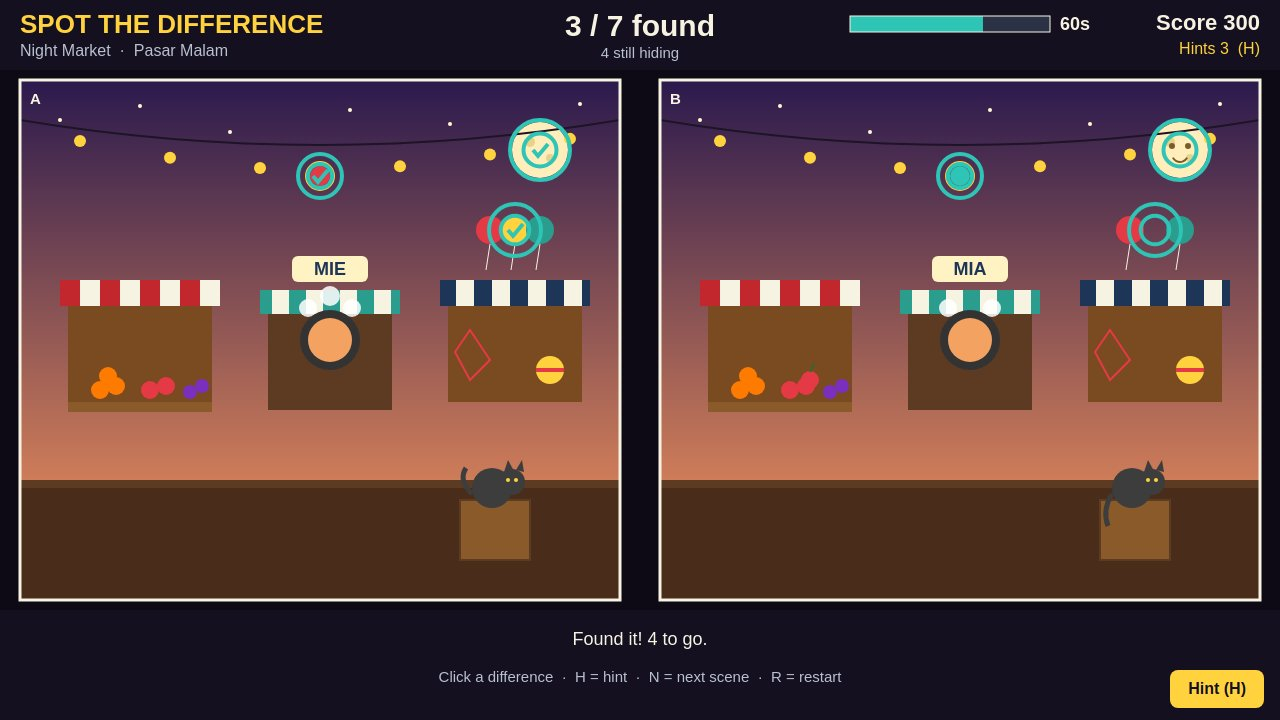
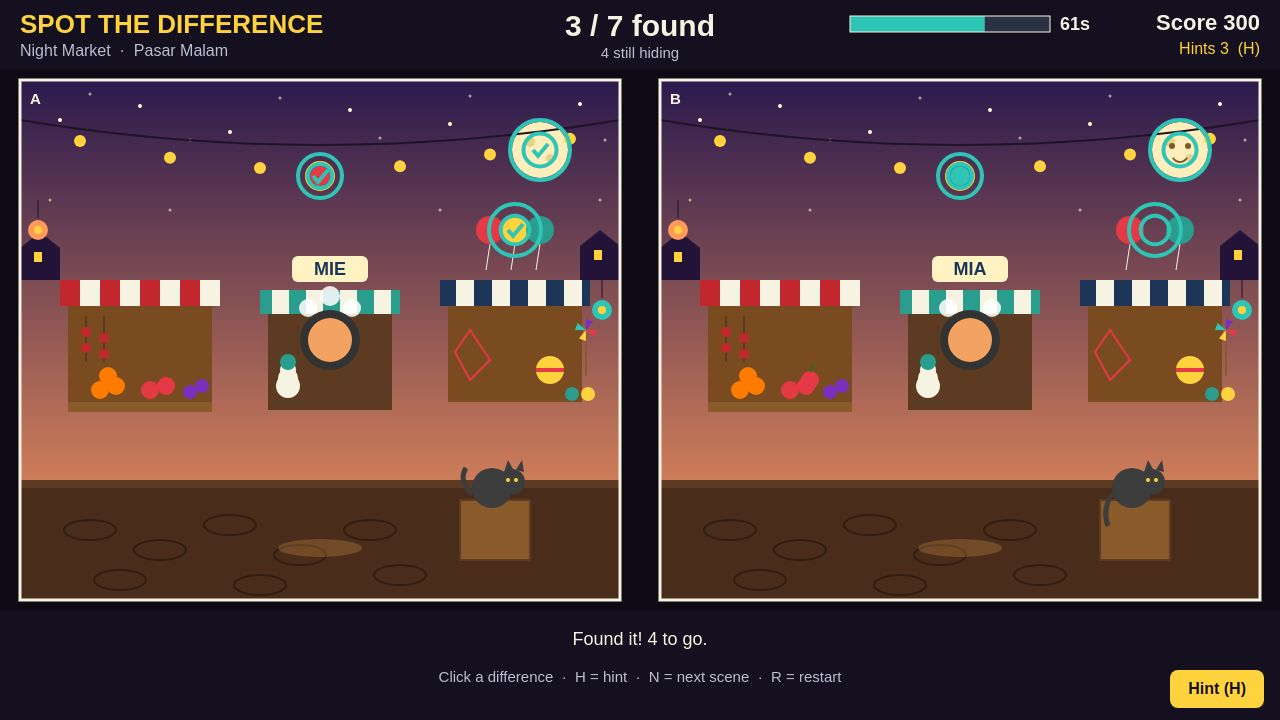
Spot the Difference revision 2: richer scenes, same 7 differences per scene

diff --git a/game/src/scenes.js b/game/src/scenes.js
@@ -66,6 +66,12 @@ function paintNightMarket(g, on) {
     sceneDisc(g, sx, sy, 2);
     g.fill();
   }
+  // a few more faint stars, kept clear of the moon and the centre lamp
+  g.fillStyle = 'rgba(255,248,214,0.6)';
+  for (const [sx, sy] of [[70, 14], [170, 60], [260, 18], [360, 58], [450, 16], [585, 60], [30, 120], [150, 130], [420, 130], [580, 120]]) {
+    sceneDisc(g, sx, sy, 1.5);
+    g.fill();
+  }
   // moon, top right — difference "moon": a face appears
   g.fillStyle = '#ffeebb';
   sceneDisc(g, 520, 70, 28);
@@ -109,11 +115,44 @@ function paintNightMarket(g, on) {
   g.lineWidth = 2;
   sceneDisc(g, 300, 96, 14);
   g.stroke();
+  // distant rooftops peeking over the stalls, with one lit window each
+  g.fillStyle = '#241338';
+  g.beginPath();
+  g.moveTo(0, 200);
+  g.lineTo(0, 168);
+  g.lineTo(20, 152);
+  g.lineTo(40, 168);
+  g.lineTo(40, 200);
+  g.closePath();
+  g.fill();
+  g.beginPath();
+  g.moveTo(560, 200);
+  g.lineTo(560, 166);
+  g.lineTo(580, 150);
+  g.lineTo(600, 166);
+  g.lineTo(600, 200);
+  g.closePath();
+  g.fill();
+  g.fillStyle = '#ffd23e';
+  g.fillRect(14, 172, 8, 10);
+  g.fillRect(574, 170, 8, 10);
   // ground
   g.fillStyle = '#4a2c1a';
   g.fillRect(0, 400, 600, 120);
   g.fillStyle = '#5d3a22';
   g.fillRect(0, 400, 600, 8);
+  // cobbles and a puddle catching the market light, clear of the cat's crate
+  g.strokeStyle = 'rgba(0,0,0,0.35)';
+  g.lineWidth = 2;
+  for (const [cx, cy] of [[70, 450], [140, 470], [210, 445], [280, 475], [350, 450], [100, 500], [240, 505], [380, 495]]) {
+    g.beginPath();
+    g.ellipse(cx, cy, 26, 10, 0, 0, Math.PI * 2);
+    g.stroke();
+  }
+  g.fillStyle = 'rgba(255,180,90,0.22)';
+  g.beginPath();
+  g.ellipse(300, 468, 42, 9, 0, 0, Math.PI * 2);
+  g.fill();
   // left stall — fruit, striped awning
   g.fillStyle = '#c1272d';
   g.fillRect(40, 200, 160, 26);
@@ -137,6 +176,20 @@ function paintNightMarket(g, on) {
   g.fillStyle = '#7b2fbe';
   for (const [fx, fy] of [[170, 312], [182, 306]]) {
     sceneDisc(g, fx, fy, 7);
+    g.fill();
+  }
+  // strings of dried peppers hanging on the stall front
+  g.strokeStyle = '#3d2b1a';
+  g.lineWidth = 1;
+  for (const px of [66, 84]) {
+    g.beginPath();
+    g.moveTo(px, 236);
+    g.lineTo(px, 282);
+    g.stroke();
+  }
+  g.fillStyle = '#c1272d';
+  for (const [px, py] of [[66, 252], [66, 268], [84, 258], [84, 274]]) {
+    sceneDisc(g, px, py, 5);
     g.fill();
   }
   // difference "apple": one more apple on the counter
@@ -173,6 +226,15 @@ function paintNightMarket(g, on) {
     g.fill();
   }
   sceneDisc(g, 332, 228, 9);
+  g.fill();
+  // a stack of bowls on the noodle cart counter
+  g.fillStyle = '#f7f3e3';
+  for (let i = 0; i < 3; i++) {
+    sceneDisc(g, 268, 306 - i * 8, 12 - i * 2);
+    g.fill();
+  }
+  g.fillStyle = '#2a9d8f';
+  sceneDisc(g, 268, 282, 8);
   g.fill();
   // cart sign — difference "sign": MIE reads MIA
   g.fillStyle = '#fff3c4';
@@ -220,6 +282,30 @@ function paintNightMarket(g, on) {
   g.fill();
   g.fillStyle = '#e63946';
   g.fillRect(516, 288, 28, 4);
+  // a pinwheel on a stick and a row of toy balls on the right stall
+  g.strokeStyle = '#8b5a2b';
+  g.lineWidth = 2;
+  g.beginPath();
+  g.moveTo(566, 250);
+  g.lineTo(566, 296);
+  g.stroke();
+  const pinCols = ['#e63946', '#ffd23e', '#2ec4b6', '#7b2fbe'];
+  for (let i = 0; i < 4; i++) {
+    g.fillStyle = pinCols[i];
+    g.beginPath();
+    g.moveTo(566, 250);
+    const a = (i * Math.PI) / 2;
+    g.lineTo(566 + Math.cos(a) * 11, 250 + Math.sin(a) * 11);
+    g.lineTo(566 + Math.cos(a + 0.7) * 11, 250 + Math.sin(a + 0.7) * 11);
+    g.closePath();
+    g.fill();
+  }
+  g.fillStyle = '#2a9d8f';
+  sceneDisc(g, 552, 314, 7);
+  g.fill();
+  g.fillStyle = '#ffd23e';
+  sceneDisc(g, 568, 314, 7);
+  g.fill();
   // cat on a crate — difference "cat": tail hangs down instead of up
   g.fillStyle = '#8b5a2b';
   g.fillRect(440, 420, 70, 60);
@@ -259,6 +345,26 @@ function paintNightMarket(g, on) {
   g.fill();
   sceneDisc(g, 496, 400, 2);
   g.fill();
+  // paper lanterns glowing at the panel edges
+  g.strokeStyle = '#1d1426';
+  g.lineWidth = 1;
+  g.beginPath();
+  g.moveTo(18, 120);
+  g.lineTo(18, 138);
+  g.moveTo(582, 200);
+  g.lineTo(582, 218);
+  g.stroke();
+  g.fillStyle = '#ff9a5c';
+  sceneDisc(g, 18, 150, 10);
+  g.fill();
+  g.fillStyle = '#2ec4b6';
+  sceneDisc(g, 582, 230, 10);
+  g.fill();
+  g.fillStyle = '#ffd23e';
+  sceneDisc(g, 18, 150, 4);
+  g.fill();
+  sceneDisc(g, 582, 230, 4);
+  g.fill();
 }
 
 // ---------------------------------------------------------------- scene 2
@@ -289,6 +395,16 @@ function paintHarbor(g, on) {
     sceneDisc(g, cx - 20, cy + 4, 14);
     g.fill();
   }
+  // two more small clouds drifting low over the sea
+  g.fillStyle = 'rgba(255,255,255,0.85)';
+  for (const [cx, cy] of [[60, 160], [250, 175], [500, 170]]) {
+    sceneDisc(g, cx, cy, 12);
+    g.fill();
+    sceneDisc(g, cx + 14, cy + 3, 9);
+    g.fill();
+    sceneDisc(g, cx - 14, cy + 3, 9);
+    g.fill();
+  }
   // gulls — difference "gull": one gull fewer (four become three)
   sceneGull(g, 220, 120, 1);
   sceneGull(g, 280, 100, 0.9);
@@ -305,11 +421,59 @@ function paintHarbor(g, on) {
     g.quadraticCurveTo(wx + wl / 2, wy - 8, wx + wl, wy);
     g.stroke();
   }
+  // two distant boats on the horizon and the sun's glint on the water
+  g.fillStyle = '#5d3a22';
+  for (const [bx, by] of [[185, 330], [548, 330]]) {
+    g.beginPath();
+    g.moveTo(bx, by);
+    g.lineTo(bx + 34, by);
+    g.lineTo(bx + 28, by + 8);
+    g.lineTo(bx + 6, by + 8);
+    g.closePath();
+    g.fill();
+  }
+  g.fillStyle = '#f7f3e3';
+  g.beginPath();
+  g.moveTo(200, 330);
+  g.lineTo(200, 312);
+  g.lineTo(216, 330);
+  g.closePath();
+  g.fill();
+  g.beginPath();
+  g.moveTo(562, 330);
+  g.lineTo(562, 312);
+  g.lineTo(576, 330);
+  g.closePath();
+  g.fill();
+  g.strokeStyle = 'rgba(255,210,62,0.6)';
+  g.lineWidth = 2;
+  for (const [gx, gy, gl] of [[512, 350, 26], [520, 372, 20], [508, 394, 30], [524, 416, 18]]) {
+    g.beginPath();
+    g.moveTo(gx, gy);
+    g.lineTo(gx + gl, gy);
+    g.stroke();
+  }
   // dock
   g.fillStyle = '#7a4a21';
   g.fillRect(0, 420, 260, 100);
   g.fillStyle = '#8b5a2b';
   for (let i = 0; i < 5; i++) g.fillRect(0, 436 + i * 16, 260, 3);
+  // a coiled rope and a wooden bucket on the dock
+  g.strokeStyle = '#5d3a22';
+  g.lineWidth = 3;
+  for (const [rx, ry] of [[40, 470], [232, 482]]) {
+    g.beginPath();
+    g.arc(rx, ry, 12, 0, Math.PI * 2);
+    g.stroke();
+    g.beginPath();
+    g.arc(rx, ry, 6, 0, Math.PI * 2);
+    g.stroke();
+  }
+  g.fillStyle = '#8b5a2b';
+  g.fillRect(238, 440, 18, 20);
+  g.strokeStyle = '#5d3a22';
+  g.lineWidth = 2;
+  g.strokeRect(238, 440, 18, 20);
   // crates — difference "crate": the top crate is gone
   g.fillStyle = '#b08954';
   g.fillRect(120, 380, 44, 40);
@@ -405,6 +569,23 @@ function paintHarbor(g, on) {
   g.lineTo(490, 340);
   g.closePath();
   g.fill();
+  // a small rowboat tied up near the dock, with oars shipped
+  g.fillStyle = '#7a4a21';
+  g.beginPath();
+  g.moveTo(262, 466);
+  g.lineTo(322, 466);
+  g.lineTo(312, 480);
+  g.lineTo(272, 480);
+  g.closePath();
+  g.fill();
+  g.strokeStyle = '#5d3a22';
+  g.lineWidth = 2;
+  g.beginPath();
+  g.moveTo(276, 466);
+  g.lineTo(292, 452);
+  g.moveTo(308, 466);
+  g.lineTo(296, 452);
+  g.stroke();
   // buoy — difference "buoy": yellow instead of red
   g.fillStyle = on.has('buoy') ? '#ffd23e' : '#e63946';
   sceneDisc(g, 480, 440, 14);
@@ -447,6 +628,23 @@ function paintStation(g, on) {
     sceneDisc(g, sx, sy, 2);
     g.fill();
   }
+  // a small cratered moon and two soft nebula wisps, far from the bright star
+  g.fillStyle = '#dfe6ee';
+  sceneDisc(g, 85, 65, 16);
+  g.fill();
+  g.fillStyle = '#b9c0d0';
+  sceneDisc(g, 80, 60, 4);
+  g.fill();
+  sceneDisc(g, 90, 70, 3);
+  g.fill();
+  g.fillStyle = 'rgba(123,47,190,0.16)';
+  g.beginPath();
+  g.ellipse(90, 245, 38, 16, 0.3, 0, Math.PI * 2);
+  g.fill();
+  g.fillStyle = 'rgba(46,196,182,0.14)';
+  g.beginPath();
+  g.ellipse(480, 45, 30, 14, -0.2, 0, Math.PI * 2);
+  g.fill();
   // bright star — difference "star": it is gone
   if (!on.has('star')) {
     g.fillStyle = '#fff8d6';
@@ -505,8 +703,45 @@ function paintStation(g, on) {
     g.lineTo(i * 100, 520);
     g.stroke();
   }
+  g.fillStyle = '#3d5a80';
+  for (let i = 0; i < 6; i++) {
+    sceneDisc(g, i * 100 + 50, 465, 3);
+    g.fill();
+  }
   g.fillStyle = '#232a3d';
   g.fillRect(0, 300, 600, 100);
+  // wall panel seams, a row of status LEDs and a framed star chart
+  g.strokeStyle = 'rgba(0,0,0,0.4)';
+  g.lineWidth = 1;
+  for (const wx of [50, 150, 250, 350, 450, 550]) {
+    g.beginPath();
+    g.moveTo(wx, 300);
+    g.lineTo(wx, 400);
+    g.stroke();
+  }
+  const ledCols = ['#2ec4b6', '#ffd23e', '#2ec4b6', '#e63946'];
+  for (let i = 0; i < 4; i++) {
+    g.fillStyle = ledCols[i];
+    sceneDisc(g, 330 + i * 18, 318, 4);
+    g.fill();
+  }
+  g.fillStyle = '#0e1626';
+  g.fillRect(64, 316, 52, 38);
+  g.strokeStyle = '#3d5a80';
+  g.lineWidth = 2;
+  g.strokeRect(64, 316, 52, 38);
+  g.fillStyle = '#fff8d6';
+  for (const [px, py] of [[74, 328], [90, 322], [104, 332], [82, 344], [100, 344]]) {
+    sceneDisc(g, px, py, 2);
+    g.fill();
+  }
+  g.strokeStyle = '#ffd23e';
+  g.lineWidth = 1;
+  g.beginPath();
+  g.moveTo(74, 328);
+  g.lineTo(90, 322);
+  g.lineTo(104, 332);
+  g.stroke();
   // control console — difference "light": one lamp turns red instead of green
   g.fillStyle = '#3d5a80';
   sceneRoundRect(g, 80, 360, 120, 90, 10);
@@ -522,6 +757,10 @@ function paintStation(g, on) {
   }
   g.fillStyle = '#2ec4b6';
   g.fillRect(100, 424, 80, 6);
+  g.fillStyle = '#8b93a7';
+  for (const bx of [100, 118, 136, 154]) {
+    g.fillRect(bx, 436, 12, 8);
+  }
   // cable loop — difference "cable": a second loop hangs beside the first
   g.strokeStyle = '#8b93a7';
   g.lineWidth = 4;
@@ -537,6 +776,20 @@ function paintStation(g, on) {
     g.quadraticCurveTo(310, 350, 300, 322);
     g.stroke();
   }
+  // a wrench drifting in zero-g beside the astronaut
+  g.save();
+  g.translate(385, 335);
+  g.rotate(-0.6);
+  g.fillStyle = '#b9c0d0';
+  g.fillRect(-4, -16, 8, 32);
+  g.beginPath();
+  g.arc(0, -20, 8, 0, Math.PI * 2);
+  g.fill();
+  g.fillStyle = '#1b2a4a';
+  g.beginPath();
+  g.arc(0, -20, 4, 0, Math.PI * 2);
+  g.fill();
+  g.restore();
   // astronaut — difference "visor": the visor lifts and shows a face
   g.fillStyle = '#f7f3e3';
   sceneDisc(g, 450, 300, 26);
